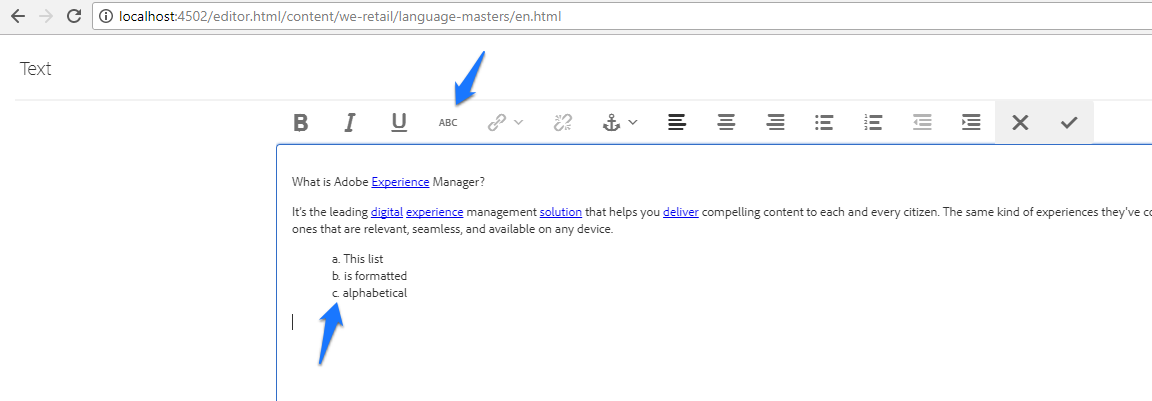
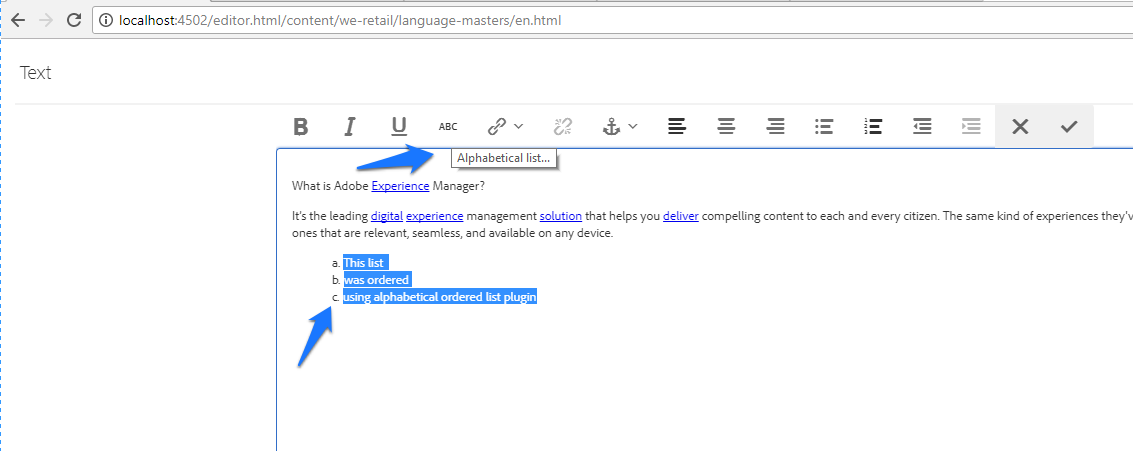
rte visual indicator

diff --git a/eaem-63-extensions/eaem-touch-rte-add-bgcolor-selected-plugin/jcr_root/apps/eaem-touch-rte-add-bgcolor-selected-plugin/clientlib/plugin-bg-color.js b/eaem-63-extensions/eaem-touch-rte-add-bgcolor-selected-plugin/jcr_root/apps/eaem-touch-rte-add-bgcolor-selected-plugin/clientlib/plugin-bg-color.js
@@ -1,0 +1,29 @@
+(function ($, $document) {
+    "use strict";
+
+    var SEL_BG_COLOR = "#9999ff",
+        extended = false;
+
+    if(extended){
+        return;
+    }
+
+    extended = true;
+
+    extendSetSelected();
+
+    function extendSetSelected(){
+        var elementImpl = CUI.rte.ui.cui.ElementImpl;
+
+        if(!elementImpl){
+            return;
+        }
+
+        var origFn = elementImpl.prototype.setSelected;
+
+        elementImpl.prototype.setSelected = function (isSelected, suppressEvent) {
+            origFn.call(this, isSelected, suppressEvent);
+            this.$ui.css("background-color", isSelected ? SEL_BG_COLOR : "");
+        }
+    }
+}(jQuery, jQuery(document)));
